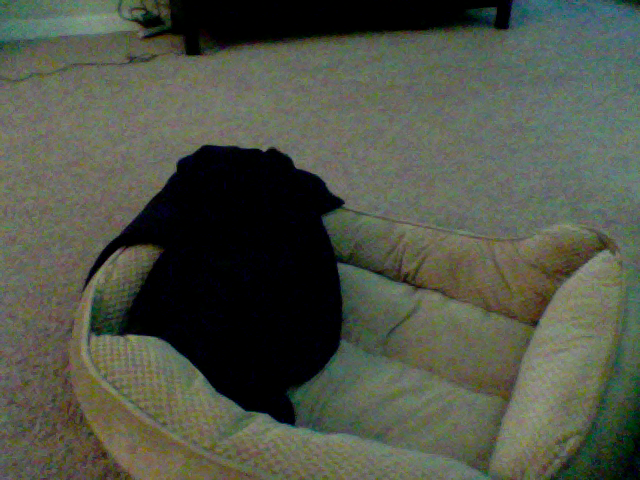
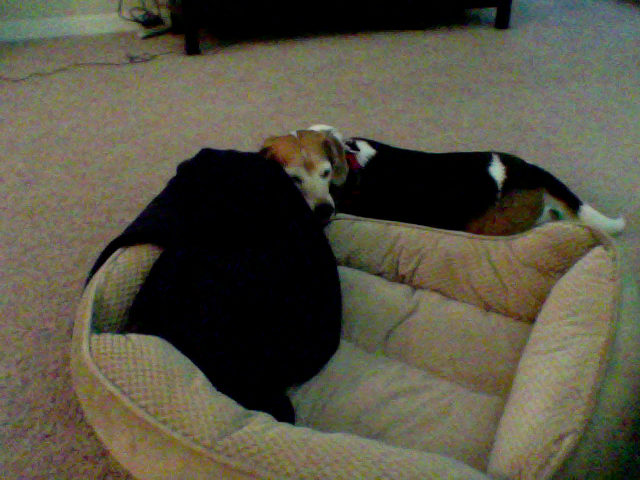
update at Month05Day12Time13:13

diff --git a/index.html b/index.html
@@ -39,8 +39,8 @@
       <!-- Example row of columns -->
       <div class="row">
         <div class="col-md-4">
-	<p>This picture was updated at Month05Day12Time13:12</p>
-		<img src="10_pic.png" />
+	<p>This picture was updated at Month05Day12Time13:13</p>
+		<img src="9_pic.png" />
         </div>
       </div>
 
